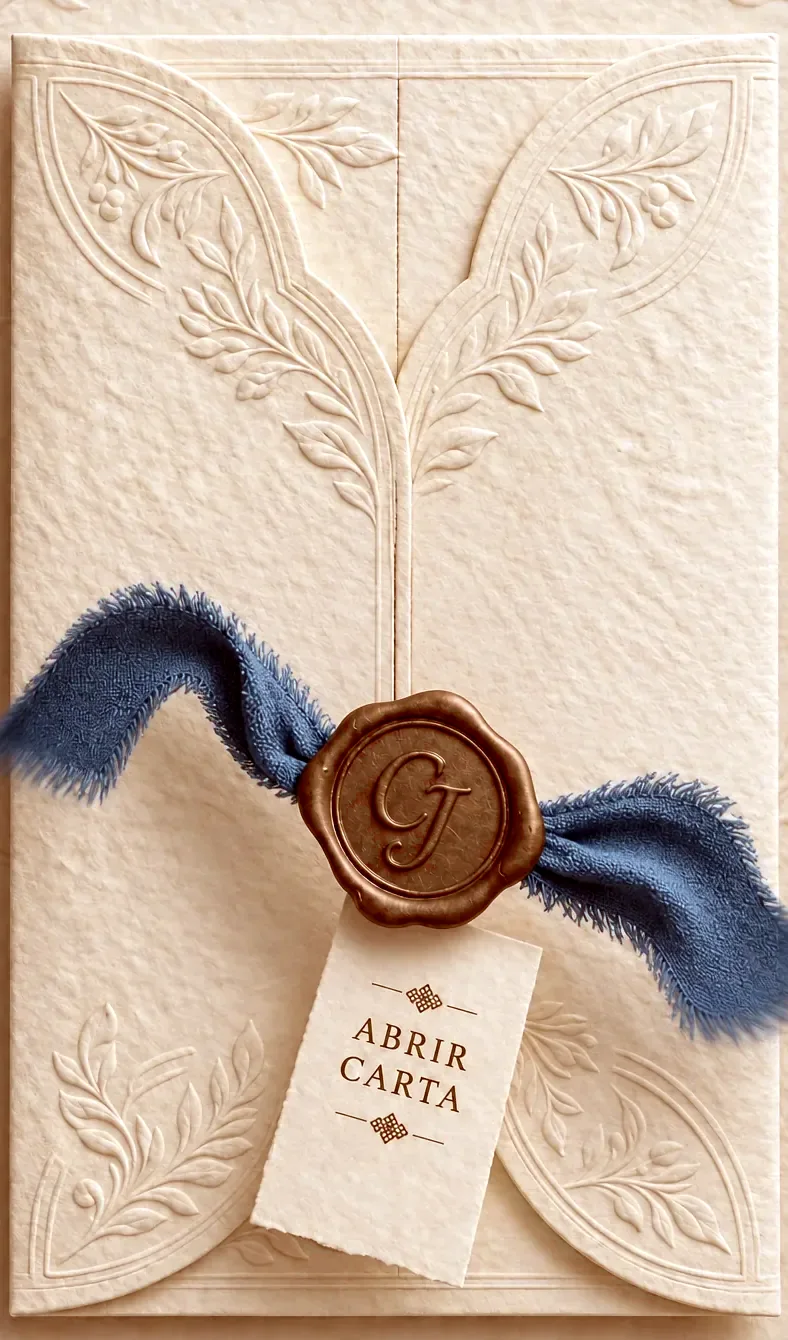
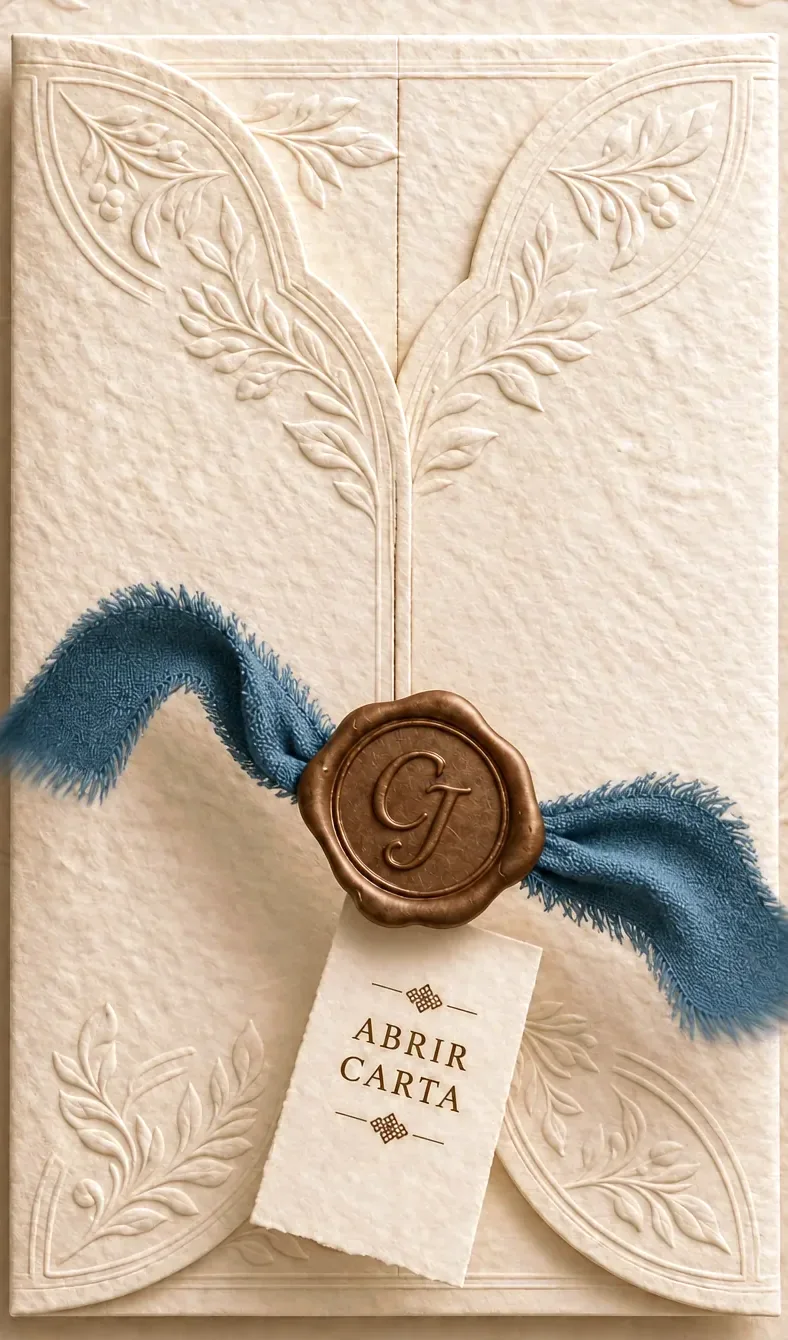
Entrada: cinta y lacre con su color original; solo se corrige el papel
Claude-Session: https://claude.ai/code/session_01CPC8ckxxTpQ5o2jahJbfrt

diff --git a/index.html b/index.html
@@ -6,7 +6,7 @@
 <meta name="theme-color" content="#efe6d8">
 <title>Camila &amp; Juan · 08.12.2026</title>
 <meta name="description" content="Camila & Juan · Nos casamos el 8 de diciembre de 2026. Abrí tu invitación.">
-<link rel="preload" as="image" href="entrada/cuadro-0.webp?v=2791936969">
+<link rel="preload" as="image" href="entrada/cuadro-0.webp?v=1791937381">
 <link rel="prefetch" href="invitacion/">
 <link rel="stylesheet" href="https://fonts.googleapis.com/css2?family=Pinyon+Script&display=swap">
 <style>
@@ -58,13 +58,13 @@
 <main class="stage">
   <button class="scene" id="scene" aria-label="Abrir la invitación de Camila y Juan">
     <span class="frames" id="frames" aria-hidden="true">
-      <img src="entrada/cuadro-0.webp?v=2791936969" alt="" fetchpriority="high">
-      <img src="entrada/cuadro-1.webp?v=2791936969" alt="">
-      <img src="entrada/cuadro-2.webp?v=2791936969" alt="">
-      <img src="entrada/cuadro-3.webp?v=2791936969" alt="">
-      <img src="entrada/abre-1.webp?v=2791936969" alt="">
-      <img src="entrada/abre-2.webp?v=2791936969" alt="">
-      <img src="entrada/abre-3.webp?v=2791936969" alt="">
+      <img src="entrada/cuadro-0.webp?v=1791937381" alt="" fetchpriority="high">
+      <img src="entrada/cuadro-1.webp?v=1791937381" alt="">
+      <img src="entrada/cuadro-2.webp?v=1791937381" alt="">
+      <img src="entrada/cuadro-3.webp?v=1791937381" alt="">
+      <img src="entrada/abre-1.webp?v=1791937381" alt="">
+      <img src="entrada/abre-2.webp?v=1791937381" alt="">
+      <img src="entrada/abre-3.webp?v=1791937381" alt="">
       <span class="letter" id="letter">
         <span class="eyebrow">Nos casamos</span>
         <img class="couple" src="invitacion/assets/pareja-sepia.webp?v=1791936748" alt="">
